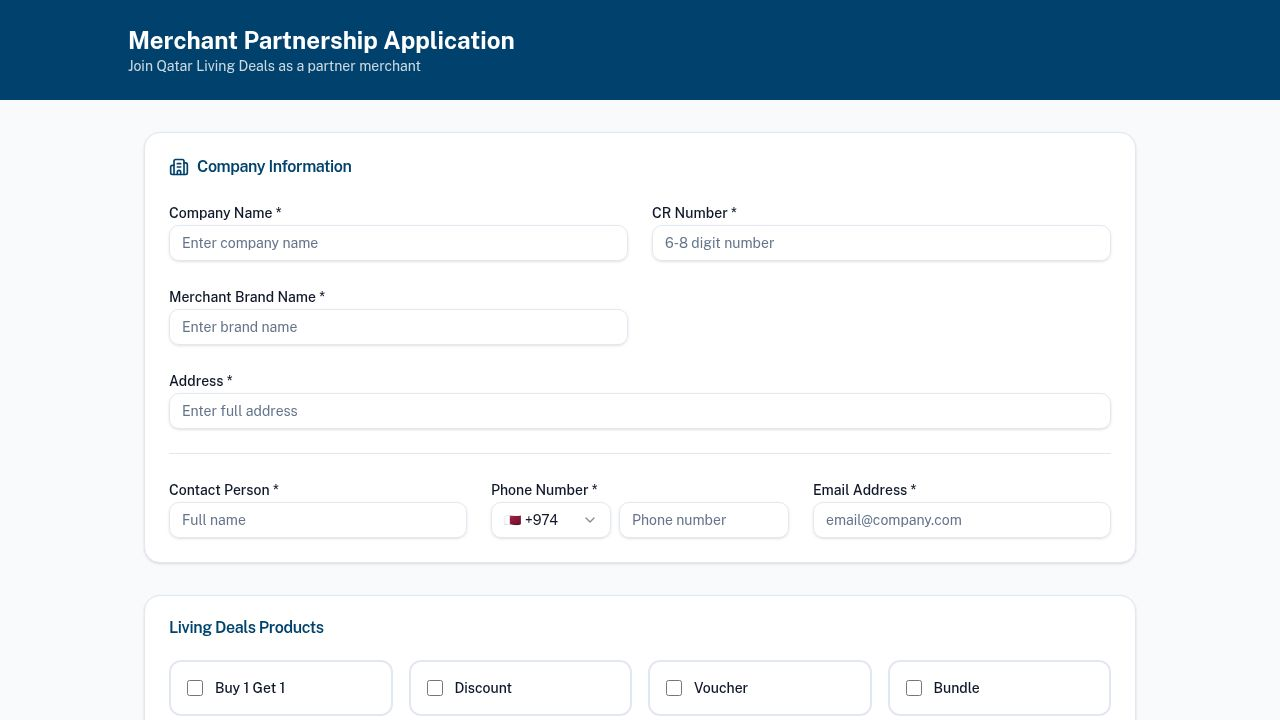
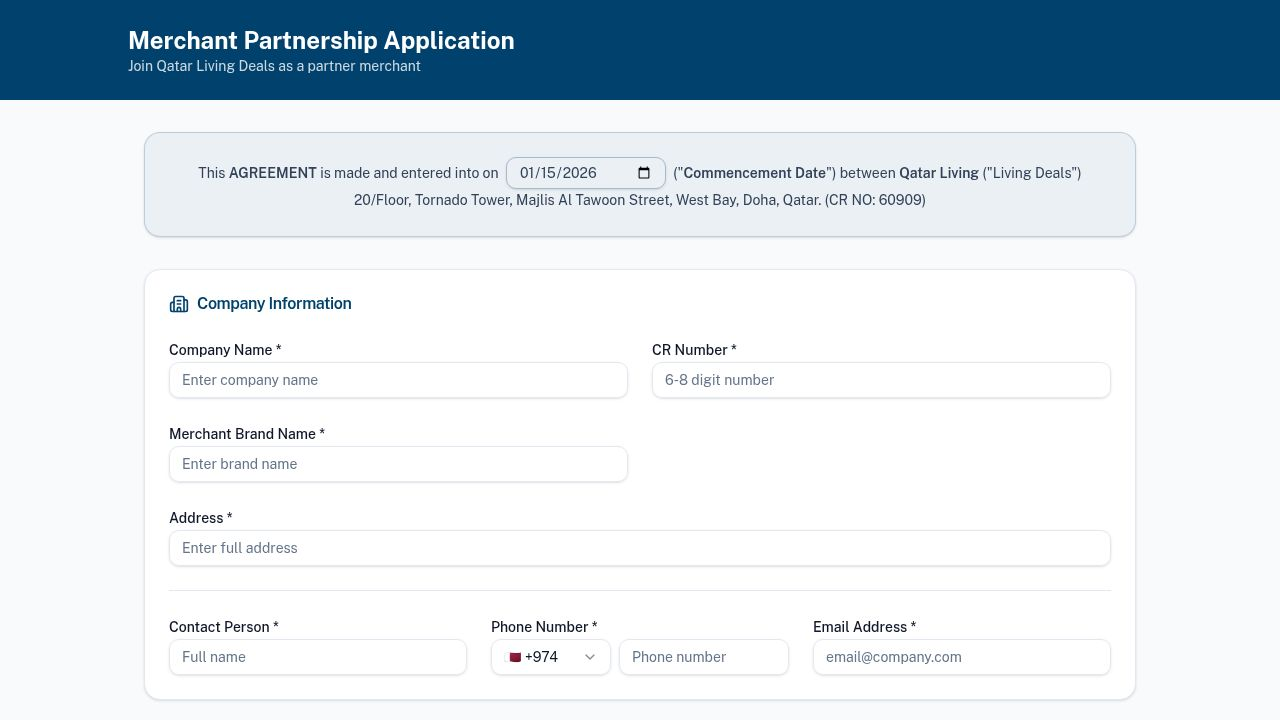
Update merchant onboarding to include agreement details and improve PDF formatting
Introduces `commencementDate` field, enforces signatory name requirement, and refines PDF layout in MerchantOnboarding, MerchantSuccess, and MerchantView components.

Replit-Commit-Author: Agent
Replit-Commit-Session-Id: ec1238de-f60a-4af2-b4ad-06c1d519e0e1
Replit-Commit-Checkpoint-Type: intermediate_checkpoint
Replit-Commit-Event-Id: 0e44bd66-cbc9-4c46-88b6-f15710e796b3
Replit-Commit-Screenshot-Url: https://storage.googleapis.com/screenshot-production-us-central1/b394de88-7ddf-4ef4-a4ce-ed4d9d0f175d/ec1238de-f60a-4af2-b4ad-06c1d519e0e1/t4ubtND
Replit-Helium-Checkpoint-Created: true

diff --git a/client/src/pages/MerchantOnboarding.tsx b/client/src/pages/MerchantOnboarding.tsx
@@ -137,8 +137,8 @@ const merchantSchema = z.object({
   tradeLicense: z.string().optional(),
   menuPriceList: z.string().optional(),
   merchantSignature: z.string().optional(),
-  merchantSignatoryName: z.string().optional(),
-  merchantSignDate: z.string().optional(),
+  merchantSignatoryName: z.string().min(1, "Authorized signatory name is required"),
+  commencementDate: z.string().min(1, "Commencement date is required"),
   termsAccepted: z.boolean().refine(val => val === true, {
     message: "You must accept the terms and conditions to submit",
   }),
@@ -205,7 +205,7 @@ export default function MerchantOnboarding() {
       businessCategories: [],
       branches: [],
       deals: [],
-      merchantSignDate: new Date().toISOString().split('T')[0],
+      commencementDate: new Date().toISOString().split('T')[0],
       termsAccepted: false,
     },
   });
@@ -303,8 +303,7 @@ export default function MerchantOnboarding() {
         body: JSON.stringify({
           ...data,
           branches: formattedBranches,
-          merchantSignDate: new Date().toISOString(),
-        }),
+                  }),
       });
 
       if (!response.ok) {
@@ -356,6 +355,35 @@ export default function MerchantOnboarding() {
             });
           })} className="space-y-8">
             
+            {/* Agreement Header */}
+            <Card className="border-[#00426D]/20 bg-[#00426D]/5">
+              <CardContent className="pt-6">
+                <div className="text-center space-y-4">
+                  <p className="text-sm text-slate-700 leading-relaxed">
+                    This <span className="font-semibold">AGREEMENT</span> is made and entered into on{" "}
+                    <FormField
+                      control={form.control}
+                      name="commencementDate"
+                      render={({ field }) => (
+                        <span className="inline-block">
+                          <Input 
+                            {...field} 
+                            type="date" 
+                            className="w-40 inline-block mx-1 h-8 text-sm border-[#00426D]/30"
+                            data-testid="input-commencement-date"
+                          />
+                        </span>
+                      )}
+                    />
+                    {" "}("<span className="font-semibold">Commencement Date</span>") between{" "}
+                    <span className="font-semibold">Qatar Living</span> ("Living Deals"){" "}
+                    20/Floor, Tornado Tower, Majlis Al Tawoon Street, West Bay, Doha, Qatar.{" "}
+                    (CR NO: 60909)
+                  </p>
+                </div>
+              </CardContent>
+            </Card>
+
             {/* Company Information */}
             <Card>
               <CardHeader>
@@ -785,34 +813,19 @@ export default function MerchantOnboarding() {
                 <CardTitle className="text-[#00426D]">Merchant Signature</CardTitle>
               </CardHeader>
               <CardContent className="space-y-6">
-                <div className="grid grid-cols-1 md:grid-cols-2 gap-6">
-                  <FormField
-                    control={form.control}
-                    name="merchantSignatoryName"
-                    render={({ field }) => (
-                      <FormItem>
-                        <FormLabel>Authorized Signatory Name</FormLabel>
-                        <FormControl>
-                          <Input {...field} placeholder="Full name of signatory" data-testid="input-signatory-name" />
-                        </FormControl>
-                        <FormMessage />
-                      </FormItem>
-                    )}
-                  />
-                  <FormField
-                    control={form.control}
-                    name="merchantSignDate"
-                    render={({ field }) => (
-                      <FormItem>
-                        <FormLabel>Date</FormLabel>
-                        <FormControl>
-                          <Input {...field} type="date" data-testid="input-sign-date" />
-                        </FormControl>
-                        <FormMessage />
-                      </FormItem>
-                    )}
-                  />
-                </div>
+                <FormField
+                  control={form.control}
+                  name="merchantSignatoryName"
+                  render={({ field }) => (
+                    <FormItem>
+                      <FormLabel>Authorized Signatory Name *</FormLabel>
+                      <FormControl>
+                        <Input {...field} placeholder="Full name of signatory" data-testid="input-signatory-name" />
+                      </FormControl>
+                      <FormMessage />
+                    </FormItem>
+                  )}
+                />
 
                 <div className="space-y-2">
                   <Label>Authorized Signatory Signature</Label>

diff --git a/client/src/pages/MerchantSuccess.tsx b/client/src/pages/MerchantSuccess.tsx
@@ -26,6 +26,7 @@ interface MerchantData {
   merchantSignature?: string;
   merchantSignatoryName?: string;
   merchantSignDate?: string;
+  commencementDate?: string;
   signedContractUpload?: string;
 }
 
@@ -93,6 +94,20 @@ export default function MerchantSuccess() {
       doc.setFontSize(9);
       doc.text(`Reference: ${merchant.id.substring(0, 8).toUpperCase()}`, pageWidth / 2, 31, { align: "center" });
       y = 45;
+      
+      doc.setTextColor(0, 0, 0);
+      doc.setFontSize(9);
+      doc.setFont("helvetica", "normal");
+      const commDate = merchant.commencementDate 
+        ? new Date(merchant.commencementDate).toLocaleDateString('en-GB', { day: 'numeric', month: 'long', year: 'numeric' })
+        : '____________________';
+      const agreementText = `This AGREEMENT is made and entered into on ${commDate} ("Commencement Date") between Qatar Living ("Living Deals") 20/Floor, Tornado Tower, Majlis Al Tawoon Street, West Bay, Doha, Qatar. (CR NO: 60909)`;
+      const agreementLines = doc.splitTextToSize(agreementText, contentWidth);
+      agreementLines.forEach((line: string) => {
+        doc.text(line, margin, y);
+        y += 5;
+      });
+      y += 5;
     };
 
     const drawSectionHeader = (title: string) => {
@@ -112,17 +127,17 @@ export default function MerchantSuccess() {
       doc.setFontSize(9);
       doc.setFont("helvetica", "bold");
       doc.setTextColor(80, 80, 80);
-      doc.text(label + ":", margin + indent, y);
+      doc.text(label + ": ", margin + indent, y);
       doc.setFont("helvetica", "normal");
       doc.setTextColor(0, 0, 0);
       const labelWidth = doc.getTextWidth(label + ": ");
-      const valueLines = doc.splitTextToSize(value || "N/A", contentWidth - labelWidth - indent - 5);
-      doc.text(valueLines[0], margin + indent + labelWidth, y);
-      y += 5;
+      const valueLines = doc.splitTextToSize(value || "N/A", contentWidth - labelWidth - indent - 10);
+      doc.text(valueLines[0], margin + indent + labelWidth + 2, y);
+      y += 6;
       for (let i = 1; i < valueLines.length; i++) {
-        checkPageBreak(5);
-        doc.text(valueLines[i], margin + indent + labelWidth, y);
-        y += 5;
+        checkPageBreak(6);
+        doc.text(valueLines[i], margin + indent + labelWidth + 2, y);
+        y += 6;
       }
     };
 
@@ -147,6 +162,7 @@ export default function MerchantSuccess() {
     drawHeader();
 
     drawSectionHeader("COMPANY INFORMATION");
+    y += 2;
     drawField("Company Name", merchant.companyName);
     drawField("CR Number", merchant.crNumber);
     drawField("Brand Name", merchant.brandName);
@@ -160,7 +176,7 @@ export default function MerchantSuccess() {
     if (merchant.businessCategories?.length > 0) {
       drawField("Business Categories", merchant.businessCategories.join(", "));
     }
-    y += 3;
+    y += 4;
 
     const documents = [];
     if (merchant.crDocument) documents.push("CR Document");
@@ -170,23 +186,24 @@ export default function MerchantSuccess() {
     if (documents.length > 0) {
       drawField("Documents Uploaded", documents.join(", "));
     }
-    y += 5;
+    y += 6;
 
     if (merchant.branches?.length > 0) {
       drawSectionHeader("BRANCH LOCATIONS");
+      y += 2;
       merchant.branches.forEach((branchStr, index) => {
         try {
           const branch = typeof branchStr === 'string' ? JSON.parse(branchStr) : branchStr;
           drawSubsectionTitle(`Branch ${index + 1}: ${branch.name}`);
-          if (branch.location) drawField("Google Maps URL", branch.location, 5);
-          if (branch.phone) drawField("Phone", branch.phone, 5);
-          if (branch.detail) drawField("Details", branch.detail, 5);
-          y += 2;
+          if (branch.location) drawField("Google Maps URL", branch.location, 8);
+          if (branch.phone) drawField("Phone", branch.phone, 8);
+          if (branch.detail) drawField("Details", branch.detail, 8);
+          y += 4;
         } catch {
           drawField(`Branch ${index + 1}`, String(branchStr));
         }
       });
-      y += 3;
+      y += 4;
     }
 
     if (merchant.deals?.length > 0) {

diff --git a/client/src/pages/MerchantView.tsx b/client/src/pages/MerchantView.tsx
@@ -47,6 +47,7 @@ interface Merchant {
   merchantSignature?: string;
   merchantSignatoryName?: string;
   merchantSignDate?: string;
+  commencementDate?: string;
   companyStamp?: string;
   signedContractUpload?: string;
   deals?: any[];
@@ -133,6 +134,20 @@ export default function MerchantView() {
       doc.setFontSize(9);
       doc.text(`Reference: ${merchant.id.substring(0, 8).toUpperCase()}`, pageWidth / 2, 31, { align: "center" });
       y = 45;
+      
+      doc.setTextColor(0, 0, 0);
+      doc.setFontSize(9);
+      doc.setFont("helvetica", "normal");
+      const commDate = merchant.commencementDate 
+        ? new Date(merchant.commencementDate).toLocaleDateString('en-GB', { day: 'numeric', month: 'long', year: 'numeric' })
+        : '____________________';
+      const agreementText = `This AGREEMENT is made and entered into on ${commDate} ("Commencement Date") between Qatar Living ("Living Deals") 20/Floor, Tornado Tower, Majlis Al Tawoon Street, West Bay, Doha, Qatar. (CR NO: 60909)`;
+      const agreementLines = doc.splitTextToSize(agreementText, contentWidth);
+      agreementLines.forEach((line: string) => {
+        doc.text(line, margin, y);
+        y += 5;
+      });
+      y += 5;
     };
 
     const drawSectionHeader = (title: string) => {
@@ -152,17 +167,17 @@ export default function MerchantView() {
       doc.setFontSize(9);
       doc.setFont("helvetica", "bold");
       doc.setTextColor(80, 80, 80);
-      doc.text(label + ":", margin + indent, y);
+      doc.text(label + ": ", margin + indent, y);
       doc.setFont("helvetica", "normal");
       doc.setTextColor(0, 0, 0);
       const labelWidth = doc.getTextWidth(label + ": ");
-      const valueLines = doc.splitTextToSize(value || "N/A", contentWidth - labelWidth - indent - 5);
-      doc.text(valueLines[0], margin + indent + labelWidth, y);
-      y += 5;
+      const valueLines = doc.splitTextToSize(value || "N/A", contentWidth - labelWidth - indent - 10);
+      doc.text(valueLines[0], margin + indent + labelWidth + 2, y);
+      y += 6;
       for (let i = 1; i < valueLines.length; i++) {
-        checkPageBreak(5);
-        doc.text(valueLines[i], margin + indent + labelWidth, y);
-        y += 5;
+        checkPageBreak(6);
+        doc.text(valueLines[i], margin + indent + labelWidth + 2, y);
+        y += 6;
       }
     };
 
@@ -372,8 +387,8 @@ export default function MerchantView() {
     doc.text("Title: _______________________", rightBoxX, boxY);
     boxY += 7;
 
-    const signDate = merchant.merchantSignDate 
-      ? new Date(merchant.merchantSignDate).toLocaleDateString() 
+    const signDate = merchant.commencementDate 
+      ? new Date(merchant.commencementDate).toLocaleDateString() 
       : "_______________________";
     doc.text("Date: " + signDate, leftBoxX, boxY);
     doc.text("Date: _______________________", rightBoxX, boxY);
@@ -829,10 +844,10 @@ export default function MerchantView() {
                 <div>
                   <p className="text-sm text-slate-500 mb-2">Signatory Name</p>
                   <p className="font-medium">{merchant.merchantSignatoryName}</p>
-                  {merchant.merchantSignDate && (
+                  {merchant.commencementDate && (
                     <>
-                      <p className="text-sm text-slate-500 mt-3 mb-1">Date</p>
-                      <p className="font-medium">{format(new Date(merchant.merchantSignDate), "MMMM d, yyyy")}</p>
+                      <p className="text-sm text-slate-500 mt-3 mb-1">Commencement Date</p>
+                      <p className="font-medium">{format(new Date(merchant.commencementDate), "MMMM d, yyyy")}</p>
                     </>
                   )}
                 </div>

diff --git a/shared/schema.ts b/shared/schema.ts
@@ -170,6 +170,7 @@ export const merchants = pgTable("merchants", {
   merchantSignatoryName: text("merchant_signatory_name"),
   companyStamp: text("company_stamp"),
   merchantSignDate: text("merchant_sign_date"),
+  commencementDate: text("commencement_date"),
   qlSignature: text("ql_signature"),
   qlName: text("ql_name"),
   qlTitle: text("ql_title"),
